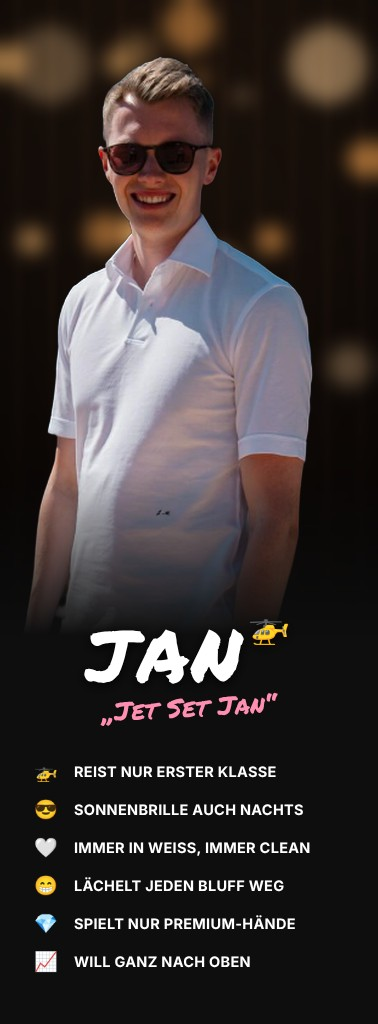
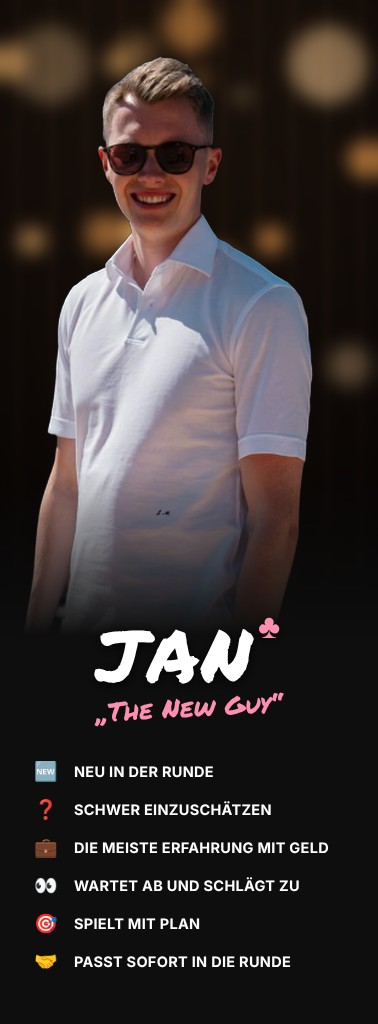
Jan: neue Texte (The New Guy)
Claude-Session: https://claude.ai/code/session_01AgPGxrhmogBa7YXoy85Ab2

Changed region(s): [[0.2037, 0.75, 0.873, 0.9688], [0.2328, 0.5938, 0.7566, 0.7188], [0.0873, 0.7188, 0.1455, 0.9688]]

diff --git a/tafel/index.html b/tafel/index.html
@@ -827,7 +827,7 @@ function drawOverview(a){
 const CA=(a,b)=>b?{img:"karten/"+a,fg:"karten/"+b}:"karten/"+a;
 const C_NIK=[CA("niklas.jpg"),CA("niklas-2.jpg","niklas-2-fg.png"),CA("niklas-3.jpg","niklas-3-fg.png")],C_MAGG=[CA("magg.jpg"),CA("magg-2.jpg","magg-2-fg.png")],C_OLI=[CA("oli.jpg","oli-fg.png"),CA("oli-2.jpg","oli-2-fg.png")],C_PHIL=CA("philipp.jpg","philipp-fg.png"),C_JON=CA("jonny.jpg","jonny-fg.png");
 /* a list = several pictures; the board always shows the first (main) card, the others live in the profile gallery */
-const CARDS={"tim":[CA("tim.jpg"),CA("tim-2.jpg")],"niklas":C_NIK,"niki":C_NIK,"nico":CA("nico.jpg"),"manu":[CA("manu.jpg","manu-fg.png"),CA("manu-2.jpg")],"domi m":C_MAGG,"magg":C_MAGG,"domi c":CA("domi-c.jpg","domi-c-fg.png"),"oli":C_OLI,"olli":C_OLI,"philipp":C_PHIL,"phillip":C_PHIL,"phil":C_PHIL,"jonny":C_JON,"jonas":C_JON,"johnny":C_JON,"benno":CA("benno.jpg"),"chris":CA("chris.jpg","chris-fg.png"),"jan":CA("jan.jpg","jan-fg.png"),"kevin":[CA("kevin.jpg","kevin-fg.png"),CA("kevin-2.jpg","kevin-2-fg.png")]};
+const CARDS={"tim":[CA("tim.jpg"),CA("tim-2.jpg")],"niklas":C_NIK,"niki":C_NIK,"nico":CA("nico.jpg"),"manu":[CA("manu.jpg","manu-fg.png"),CA("manu-2.jpg")],"domi m":C_MAGG,"magg":C_MAGG,"domi c":CA("domi-c.jpg","domi-c-fg.png"),"oli":C_OLI,"olli":C_OLI,"philipp":C_PHIL,"phillip":C_PHIL,"phil":C_PHIL,"jonny":C_JON,"jonas":C_JON,"johnny":C_JON,"benno":CA("benno.jpg"),"chris":CA("chris.jpg","chris-fg.png"),"jan":CA("jan.jpg?v=2","jan-fg.png"),"kevin":[CA("kevin.jpg","kevin-fg.png"),CA("kevin-2.jpg","kevin-2-fg.png")]};
 /* video that plays with sound when this player's card comes up in the seat draw */
 const VIDS={"nico":"karten/nico.mp4?v=1"};
 const AV={"tim":"tim","niklas":"niklas","niki":"niklas","nico":"nico","manu":"manu","domi m":"magg","magg":"magg","domi c":"domi-c","oli":"oli","olli":"oli","philipp":"philipp","phillip":"philipp","phil":"philipp","jonny":"jonny","jonas":"jonny","johnny":"jonny","benno":"benno","chris":"chris","kevin":"kevin","jan":"jan"};

diff --git a/spieler/index.html b/spieler/index.html
@@ -93,7 +93,7 @@ const K="../tafel/karten/",V="?v=10";
 const P=[
  {n:"Tim",img:"tim.jpg",alt:[{img:"tim-2.jpg"}]},{n:"Niklas",img:"niklas.jpg",alt:[{img:"niklas-2.jpg",fg:"niklas-2-fg.png"},{img:"niklas-3.jpg",fg:"niklas-3-fg.png"}]},{n:"Nico",img:"nico.jpg"},{n:"Manu",img:"manu.jpg",fg:"manu-fg.png",alt:[{img:"manu-2.jpg"}]},
  {n:"Magg",img:"magg.jpg",alt:[{img:"magg-2.jpg",fg:"magg-2-fg.png"}]},{n:"Oli",img:"oli.jpg",fg:"oli-fg.png",alt:[{img:"oli-2.jpg",fg:"oli-2-fg.png"}]},{n:"Domi C",img:"domi-c.jpg",fg:"domi-c-fg.png"},{n:"Philipp",img:"philipp.jpg",fg:"philipp-fg.png"},
- {n:"Jonny",img:"jonny.jpg",fg:"jonny-fg.png"},{n:"Benno",img:"benno.jpg"},{n:"Chris",img:"chris.jpg",fg:"chris-fg.png"},{n:"Jan",img:"jan.jpg",fg:"jan-fg.png"},{n:"Kevin",img:"kevin.jpg",fg:"kevin-fg.png",alt:[{img:"kevin-2.jpg",fg:"kevin-2-fg.png"}]}
+ {n:"Jonny",img:"jonny.jpg",fg:"jonny-fg.png"},{n:"Benno",img:"benno.jpg"},{n:"Chris",img:"chris.jpg",fg:"chris-fg.png"},{n:"Jan",img:"jan.jpg?v=2",fg:"jan-fg.png"},{n:"Kevin",img:"kevin.jpg",fg:"kevin-fg.png",alt:[{img:"kevin-2.jpg",fg:"kevin-2-fg.png"}]}
 ];
 const R=(a,b)=>(a+Math.random()*(b-a));
 /* several pictures per player: main card in the grid, all of them as a gallery on the profile */
